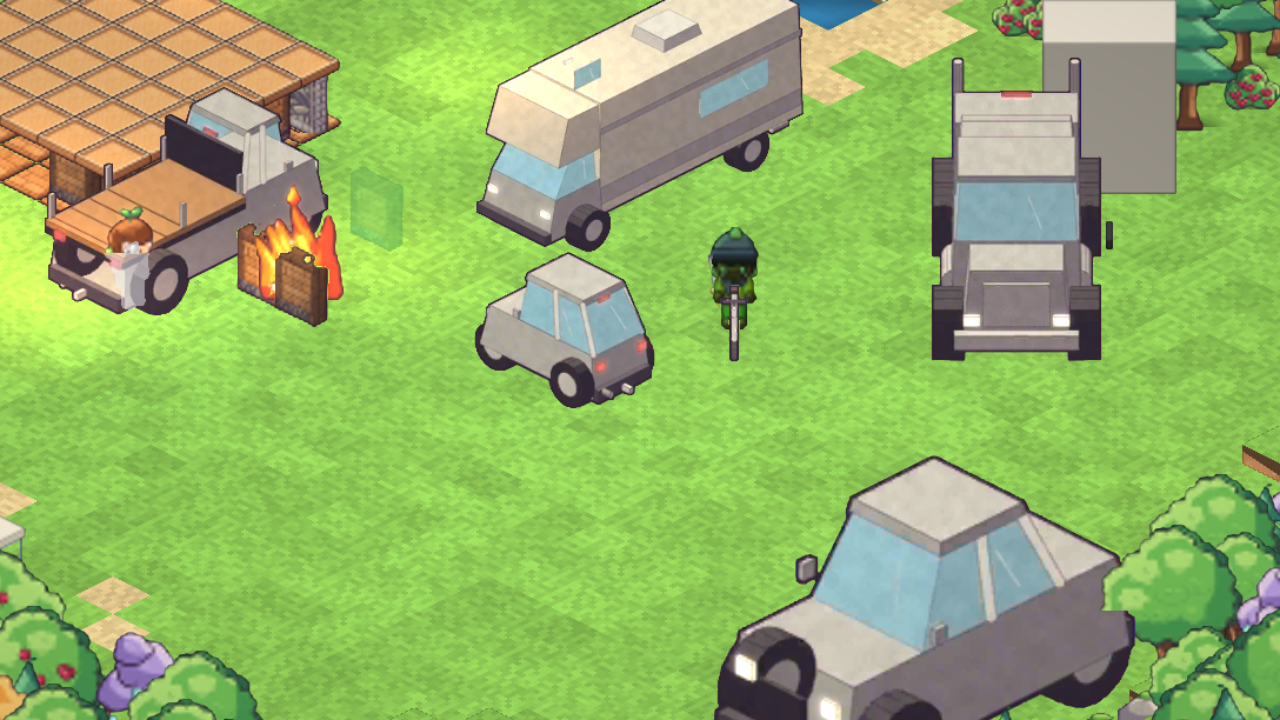
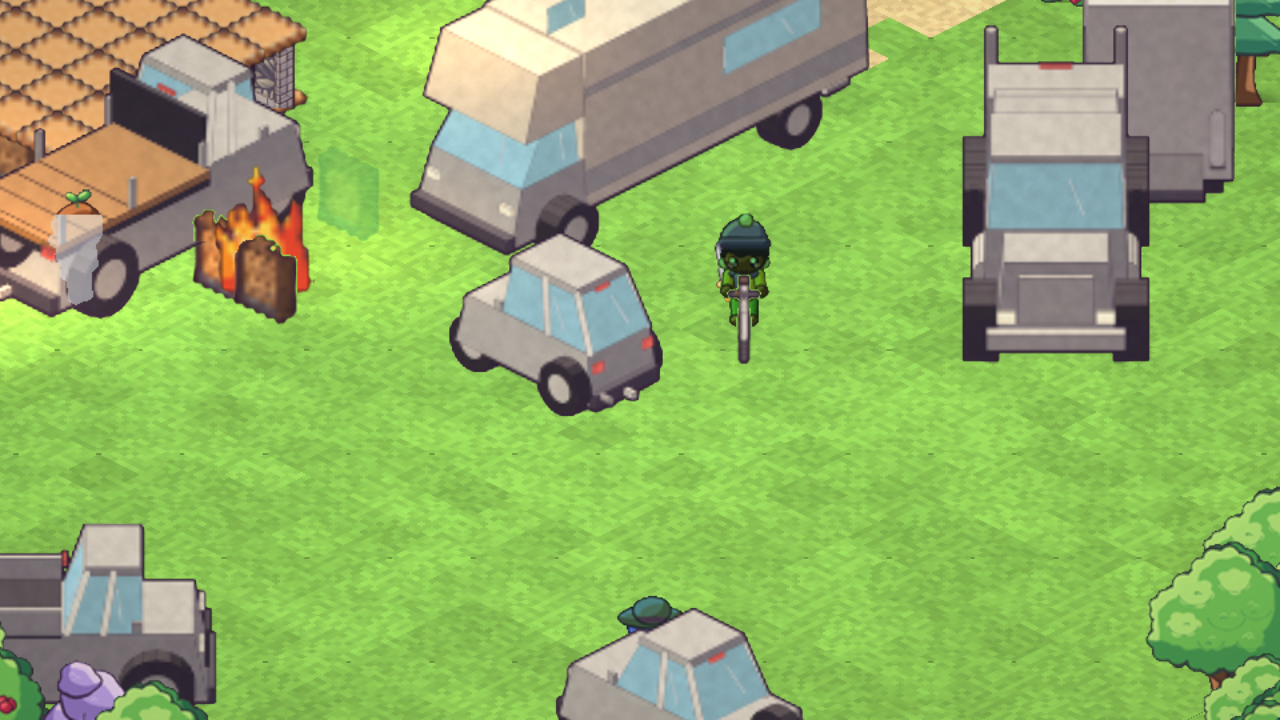
render: vehicle lineup at native true size - Art sheets native without meta table (car_sedan was fit-scaled 1.82x), demo passes Art vehicle table, VehicleView.artPending + shots wait for streamed pages (no placeholders); retake lineup/art_day

diff --git a/packages/render/demo/vehicles.ts b/packages/render/demo/vehicles.ts
@@ -23,6 +23,7 @@ const USED = ["camper_rv", "truck_pickup", "trailer_camper", "car_sedan", "semi_
 export async function vehicleDemoPack(): Promise<VehiclePack> { return buildVehicleDebugPack(USED.map(def)); }
 export type ManifestPatch = (m: ManifestJson) => Promise<{ manifest: ManifestJson; sources: Map<string, AtlasSource> }>;
 /** Merge Art's vehicle manifest (pack/vehicles/manifest.vehicles.json; images relative to it) into the pack manifest. */
+let artVehicles: unknown = undefined;
 export async function mergeArtVehicles(m: ManifestJson, base = "/@assets/pack/"): Promise<ManifestJson> {
   let v: any; try { const r = await fetch(base + "vehicles/manifest.vehicles.json"); if (!r.ok) return m; v = await r.json(); } catch { return m; }
   const pre = (u: string): string => "vehicles/" + u; const mm = m as any; const have = new Set((mm.sprites ?? []).map((s: any) => s.key));
@@ -30,6 +31,7 @@ export async function mergeArtVehicles(m: ManifestJson, base = "/@assets/pack/")
     ...(a.masks ? { masks: Object.fromEntries(Object.entries(a.masks).map(([k, u]) => [k, pre(u as string)])) } : {}) }));
   const vk = new Set(Array.isArray(v.vehicles) ? v.vehicles.map((x: any) => x.key) : Object.keys(v.vehicles ?? {}));
   const sprites = (v.sprites ?? []).filter((s: any) => !have.has(s.key)).map((s: any) => (vk.has(s.key) ? { ...s, category: "vehicle" } : s));
+  artVehicles = v.vehicles;
   return { ...mm, atlases: [...mm.atlases, ...atlases], sprites: [...mm.sprites, ...sprites], vehicles: v.vehicles } as ManifestJson;
 }
 export const vehicleManifestPatch: ManifestPatch = async (m) => {
@@ -45,7 +47,7 @@ export function setupVehicleDemo(world: World, reg: AssetRegistry, o: { x: numbe
     for (let k = 0; k < sp.size; k++) { const e = sp.dense[k]! as Entity; if (keep.has(e)) continue; const t = world.get(e, Transform); if (t && t.x > o.x - 6 && t.x < o.x + 22 && t.y > o.y - 5 && t.y < o.y + 27) kill.push(e); }
     for (const e of kill) { o.index?.remove(e); world.destroy(e); } }
   const art = new URLSearchParams(location.search).get("vehart") !== "0";
-  const view = new VehicleView(world, reg, { ...(o.index ? { spatial: o.index } : {}), ...(art ? { art: o.manifest ? vehicleArtTable(o.manifest) : true } : {}), ...(o.pages ? { pages: o.pages } : {}) });
+  const view = new VehicleView(world, reg, { ...(o.index ? { spatial: o.index } : {}), ...(art ? { art: o.manifest ? vehicleArtTable(o.manifest) : artVehicles ? vehicleArtTable({ vehicles: artVehicles }) : true } : {}), ...(o.pages ? { pages: o.pages } : {}) });
   const { x, y } = o; const riders = o.players.slice(1);
   const rv: VehicleSnapshot = { key: 1, def: def("camper_rv"), x: x + 1, y: y + 3, heading: Math.PI / 2, occupants: [0, 0, 0, 0, 0, 0], on: false };
   const semi: VehicleSnapshot = { key: 2, def: def("semi_tractor"), x: x + 9, y: y + 1, heading: Math.PI / 4, on: true };

diff --git a/packages/render/src/vehicles/view.ts b/packages/render/src/vehicles/view.ts
@@ -66,6 +66,8 @@ export class VehicleView {
   interiorWall = -2;
   private readonly art: boolean | VehicleArtTable | undefined; private readonly pages: VehiclePages | undefined;
   private frame = 0;
+  /** Visible vehicles with an Art binding whose streamed page is not resident yet (placeholder shown); 0 = all Art. */
+  artPending = 0;
   /** seated rider entity -> its Shadow alpha before seating (restored on exit) */
   private readonly hiddenShadow = new Map<number, number>();
   private readonly iso: { tileH: number; zStep: number }; private readonly zf: number; private readonly spatial: VehicleSpatial | undefined;
@@ -79,7 +81,7 @@ export class VehicleView {
 
   sync(list: readonly VehicleSnapshot[], dt: number, o: VehicleViewOpts): RiderPlacement[] {
     const w = this.world; this.frame++; const out: RiderPlacement[] = [];
-    this.interiors.length = 0; this.interiorIds.clear();
+    this.interiors.length = 0; this.interiorIds.clear(); this.artPending = 0;
     if (this.interiorWall === -2) this.interiorWall = this.sid(ART_INTERIOR.wall);
     const byKey = new Map(list.map((s) => [s.key, s]));
     // tows first so trailers read the smoothed tow pose (chains: trailer of trailer)
@@ -103,6 +105,7 @@ export class VehicleView {
       // placeholder segments stay visible meanwhile (and in the interior cutaway - Art has no per-segment _int pieces).
       const vis = !o.inView || o.inView(x, y);
       const artOn = !!r.art && r.body !== undefined && !inside && vis && (!this.pages || this.pages.pageReady(r.art.spriteId));
+      if (r.art && r.body !== undefined && !inside && vis && !artOn) this.artPending++;
       if (r.body !== undefined) {
         const b = r.body; w.set(b, Transform, { x, y, z, facing: hq + r.art!.facingOffset });
         const sp = w.get(b, Sprite)!; const sc = r.art!.scale;

diff --git a/packages/render/demo/main.ts b/packages/render/demo/main.ts
@@ -164,7 +164,7 @@ async function main(): Promise<void> {
       if (now - bench.start >= bench.durationMs) bench.done = true;
     }
     window.__iso = { capabilities: renderer.capabilities, atlasStats: renderer.atlas.stats, vram: renderer.vram, held: renderer.heldStats, chars: renderer.characterStats,
-      ready: world.tick > 2, frameMs: lastFrameMs, fps: fpsAvg, stats: { ...st }, totalSprites: scene.spriteCount, pieces: scene.pieceCount, origin: content.origin, look: lookInfo, surface: { ...renderer.surface },
+      ready: world.tick > 2, vehArtPending: veh?.view.artPending ?? 0, frameMs: lastFrameMs, fps: fpsAvg, stats: { ...st }, totalSprites: scene.spriteCount, pieces: scene.pieceCount, origin: content.origin, look: lookInfo, surface: { ...renderer.surface },
       bench: bench.done ? { frames: bench.frames, avgFps: (bench.frames * 1000) / bench.sumMs, avgFrameMs: bench.sumMs / bench.frames, maxFrameMs: bench.maxMs, visibleSprites: bench.sprites, drawCalls: bench.drawCalls } : null,
     };
     requestAnimationFrame(frame);

diff --git a/packages/render/src/vehicles/artPack.ts b/packages/render/src/vehicles/artPack.ts
@@ -54,7 +54,9 @@ export function resolveVehicleArt(reg: AssetRegistry, def: VehicleRenderDef, met
   try { s = reg.byKey(key); id = reg.id(key); } catch { key = artKeyFor(def.id); try { s = reg.byKey(key); id = reg.id(key); } catch { return null; } }
   const a0 = s.animList[0]; if (!a0 || a0.directions !== 8) return null;
   // per-type stylized height (scale.ts): roof = heightX * player; unknown art keys fall back to 0.8 * pivot height
-  const native = meta?.get(key)?.scaleMode === "native";
+  // Art's sheets are drawn at true size (VEHICLES_RENDER.md): meta scaleMode wins; without a table, veh_art_* atlases
+  // are native too (else the legacy fit scale mixed sizes, e.g. car_sedan at 1.82x next to native-size neighbours)
+  const m = meta?.get(key); const native = m ? m.scaleMode === "native" : /^veh_art_/.test(s.atlas.key);
   const scale = native ? 1 : artScaleFor(def, key, 0.8 * s.anchor.y * s.atlas.frameH);
   return { mode: "art", key, spriteId: id, facingOffset: ART_FACING_OFFSET, scale, atlas: s.atlas.key };
 }
